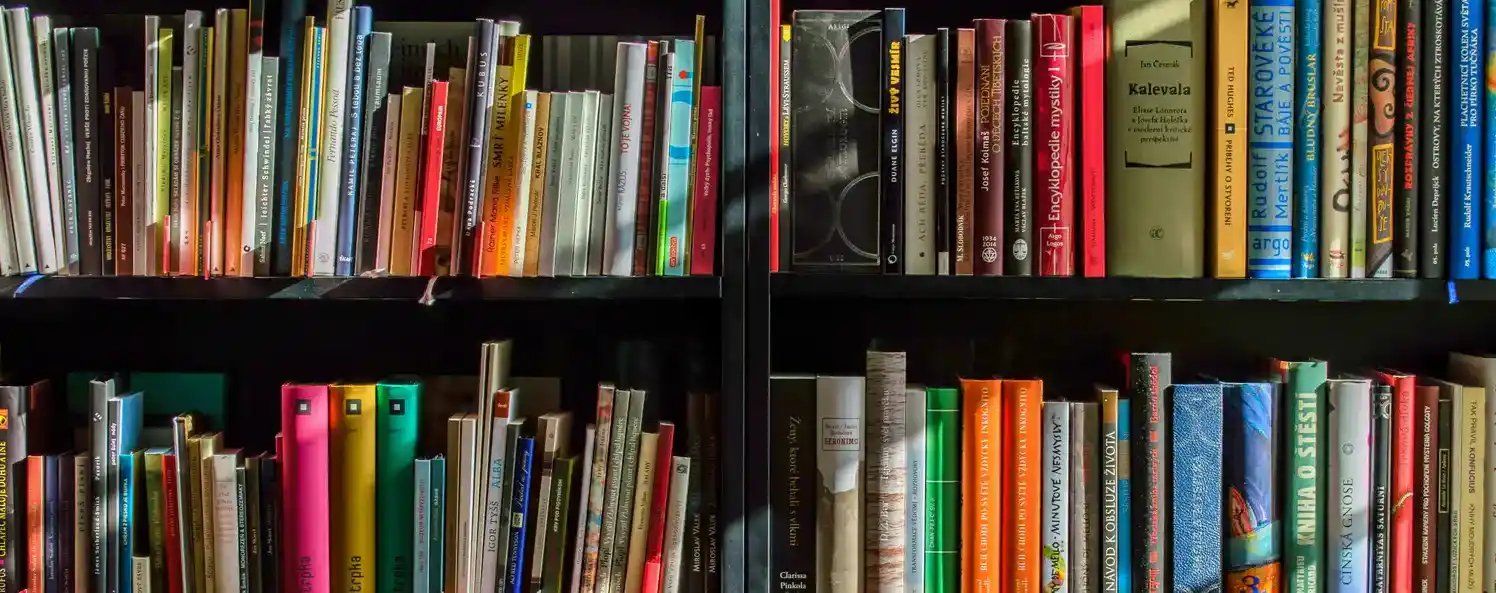
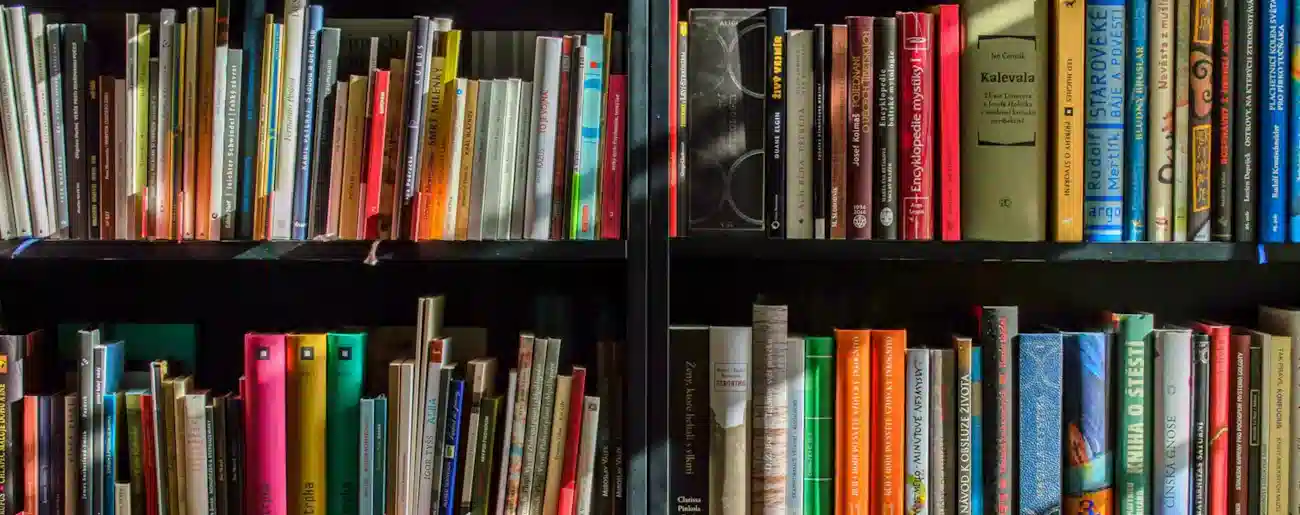
.. image resize

diff --git a/bookspace/index.html b/bookspace/index.html
@@ -52,7 +52,7 @@
 				<h2>Book Club Events</h2>
 				<h3>Join us for our book club events</h3>
 				<p> Sunday mornings at the local Morning Glass Cafe</p>
-				<img src="images/morning-glass.webp" alt="book club morning glass" width="500" height="300" loading="lazy">
+				<img src="images/morning-glass.webp" alt="book club morning glass" width="307" height="207" loading="lazy">
 			</div>
 			<div class="grid-item smaller-item">
 				<h2>Book of the Month</h2>
